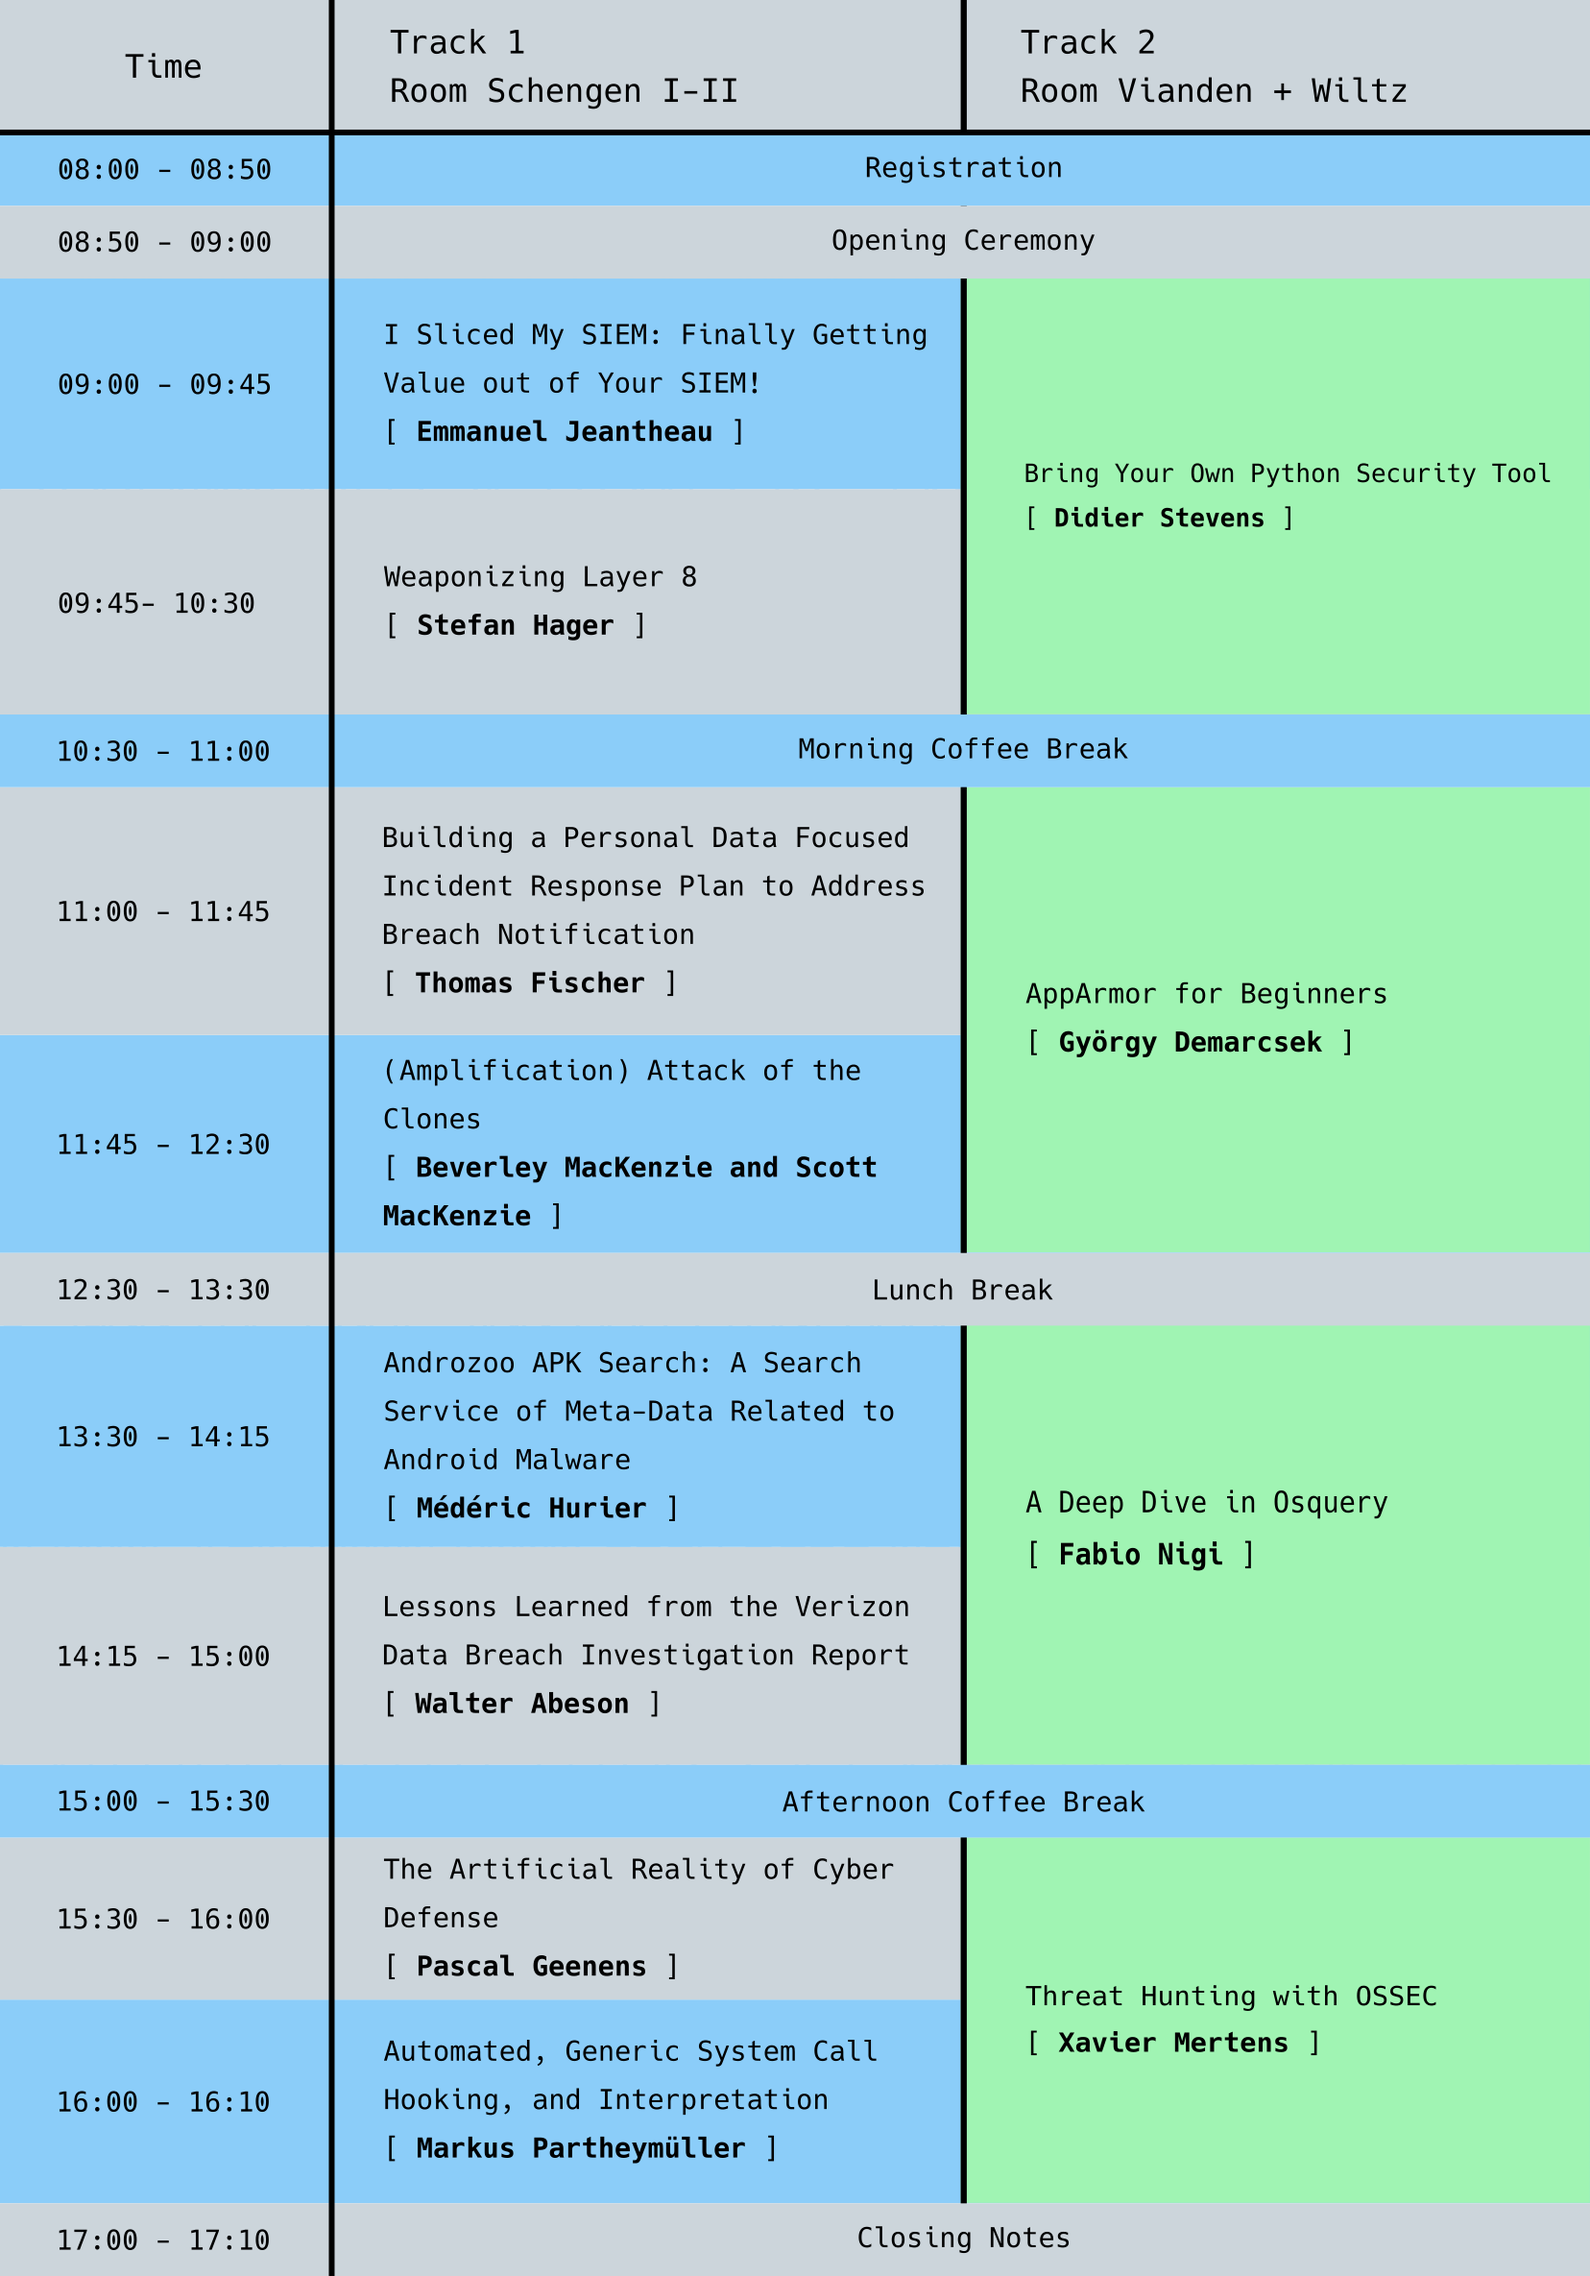
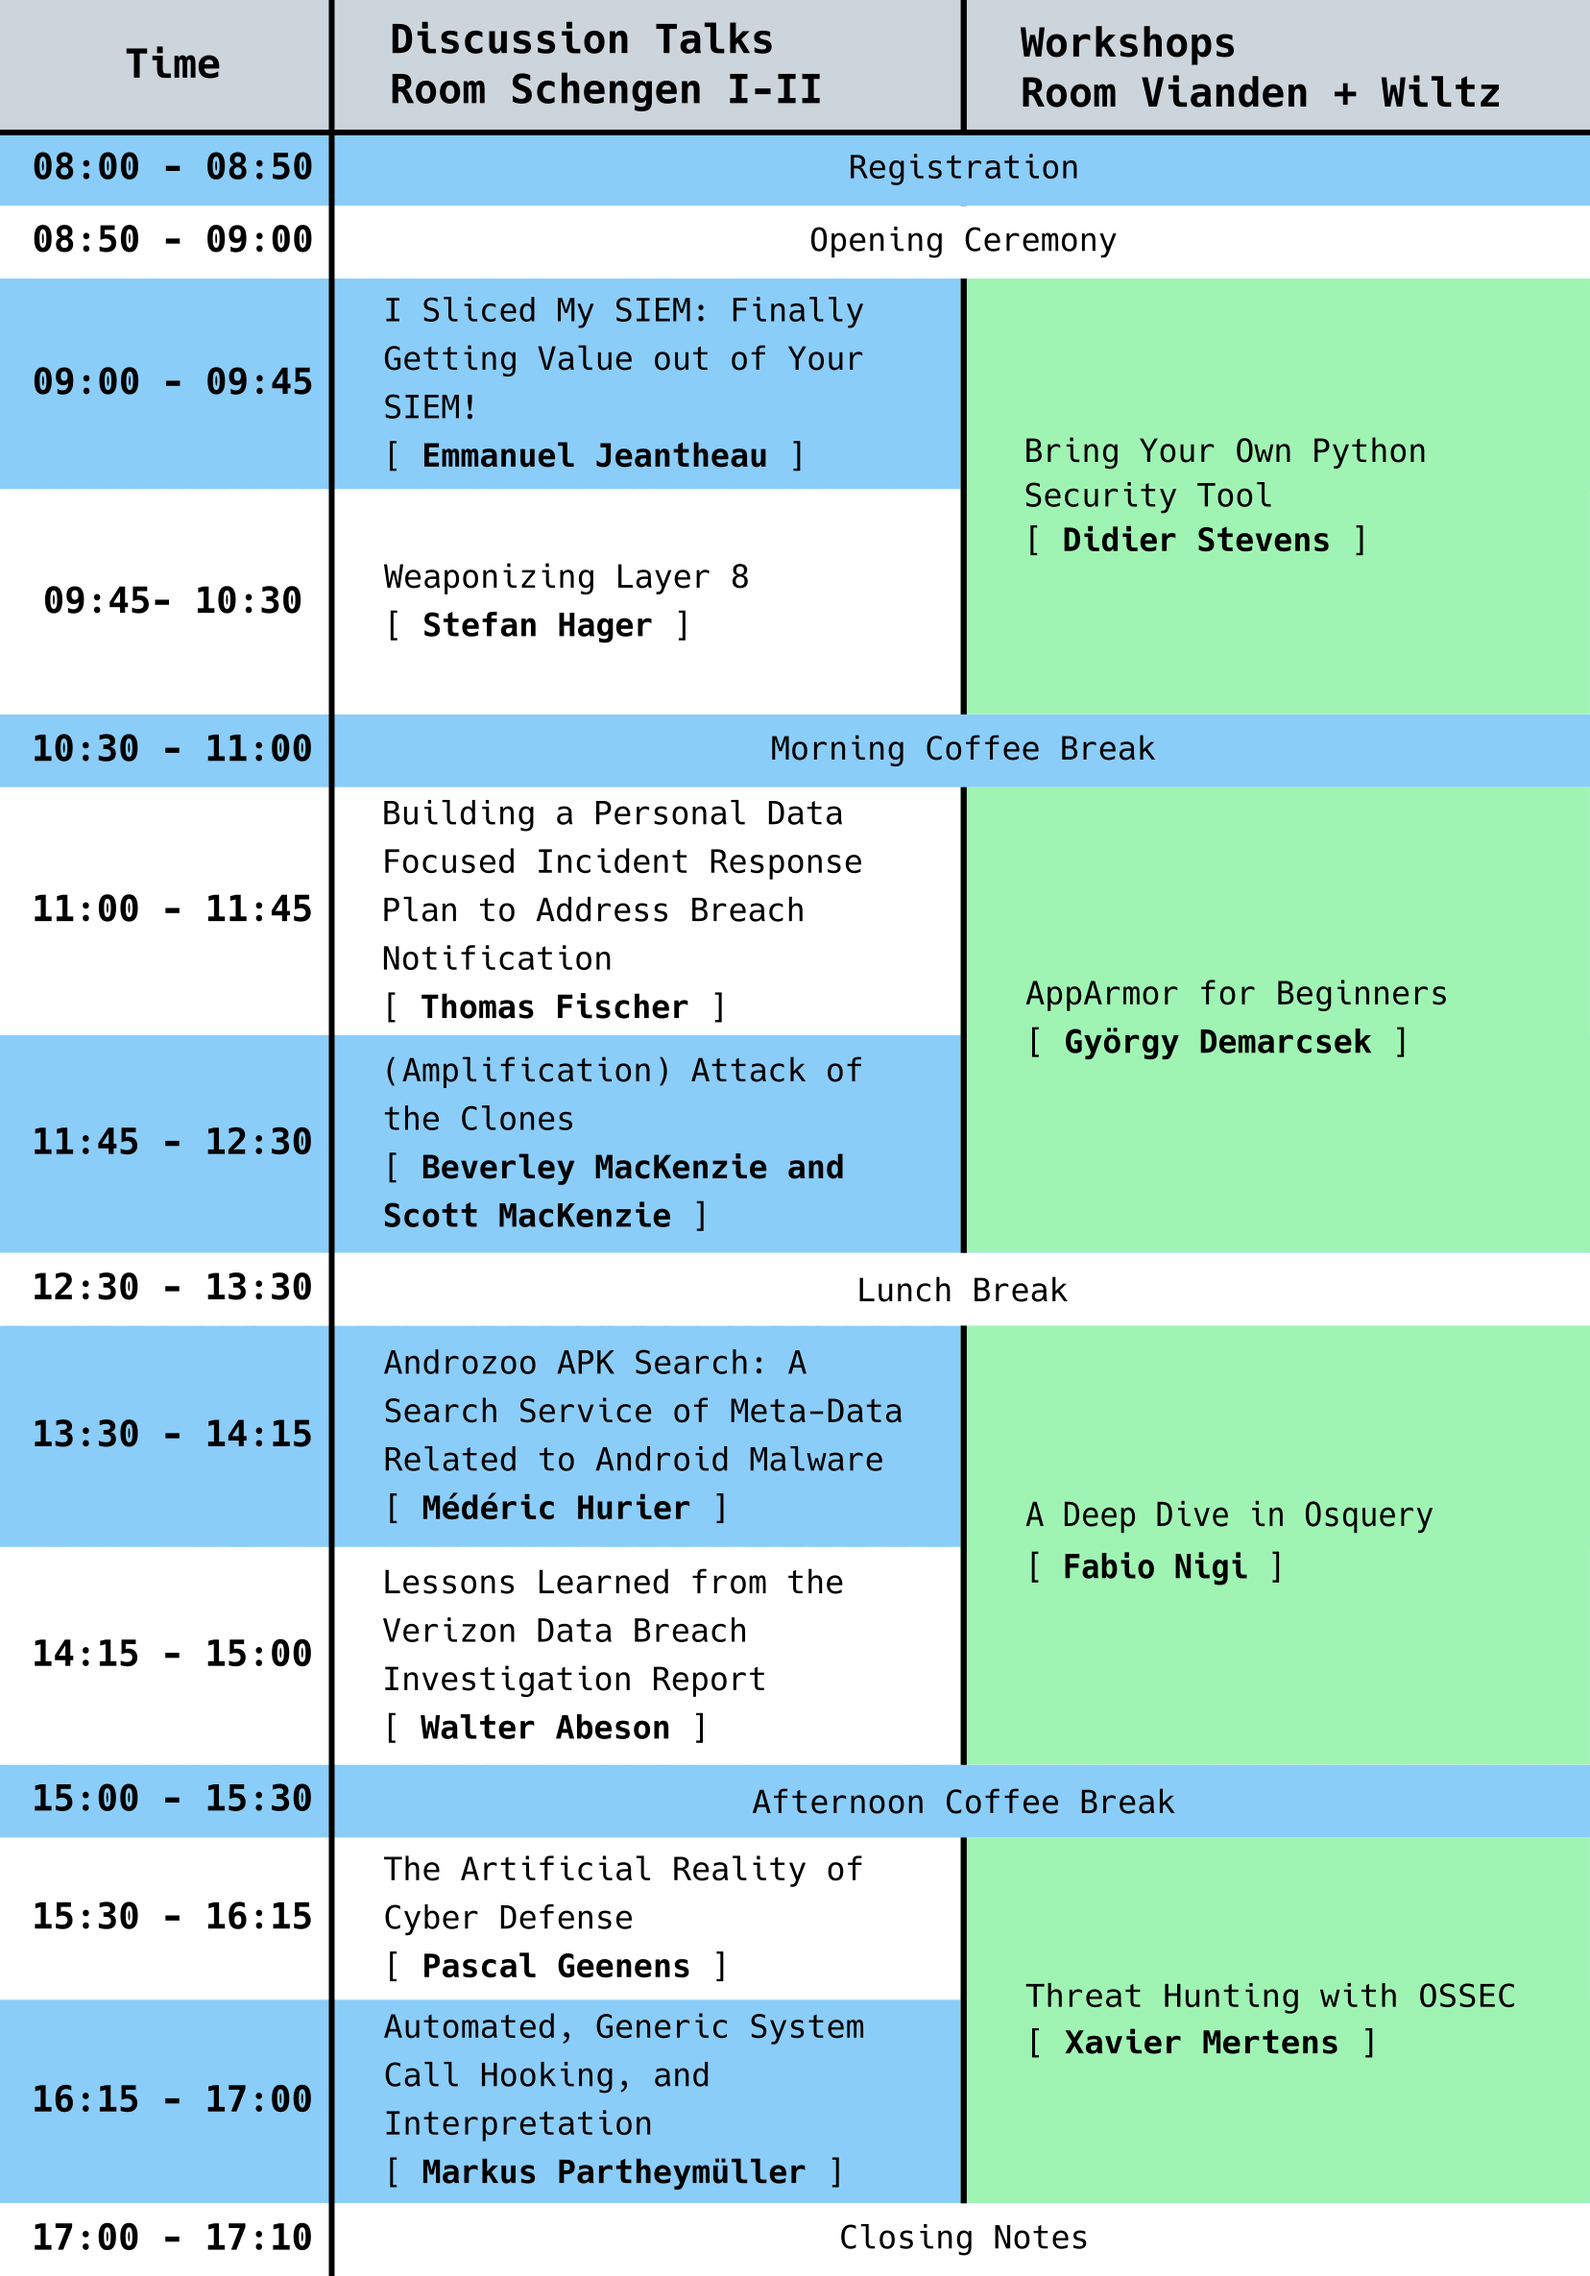
Program schedule fixed.

diff --git a/2018/program.html b/2018/program.html
@@ -104,7 +104,7 @@
 			<div class="col-lg-8 col-lg-offset-2 col-md-10 col-md-offset-1">
 				<h2 class="section-heading"> Program </h2>
 				<!-- Image version of the program -->
-				<!--<img src="img/full-program.png" style="cursor: pointer; width: 100%;"alt="">-->
+				<img src="img/full-program.png" style="cursor: pointer; width: 100%;"alt="">
 
 				<div class="talk">
 				  <a href="#I_Sliced_My_SIEM" id="I_Sliced_My_SIEM"><h2>I Sliced My SIEM: Finally Getting Value out of Your SIEM!</h2></a>
